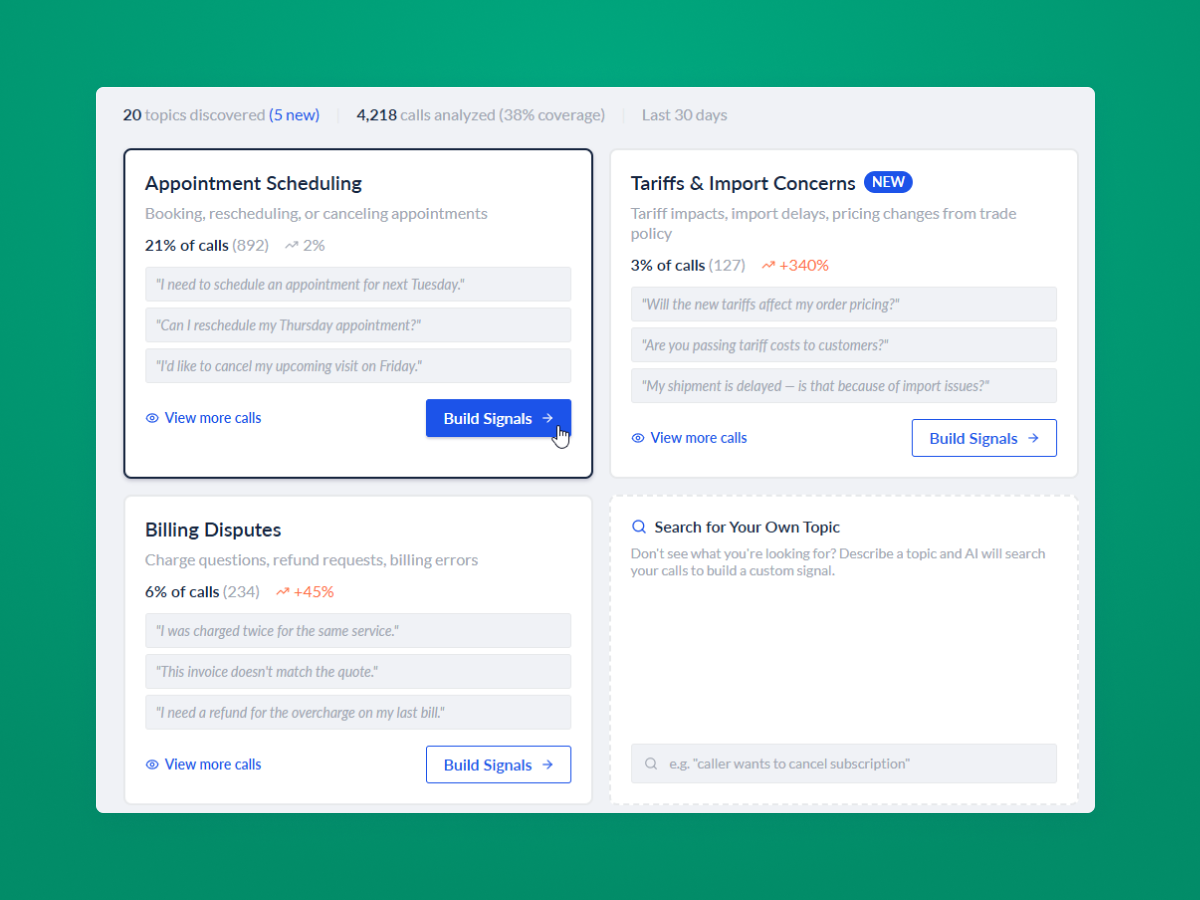
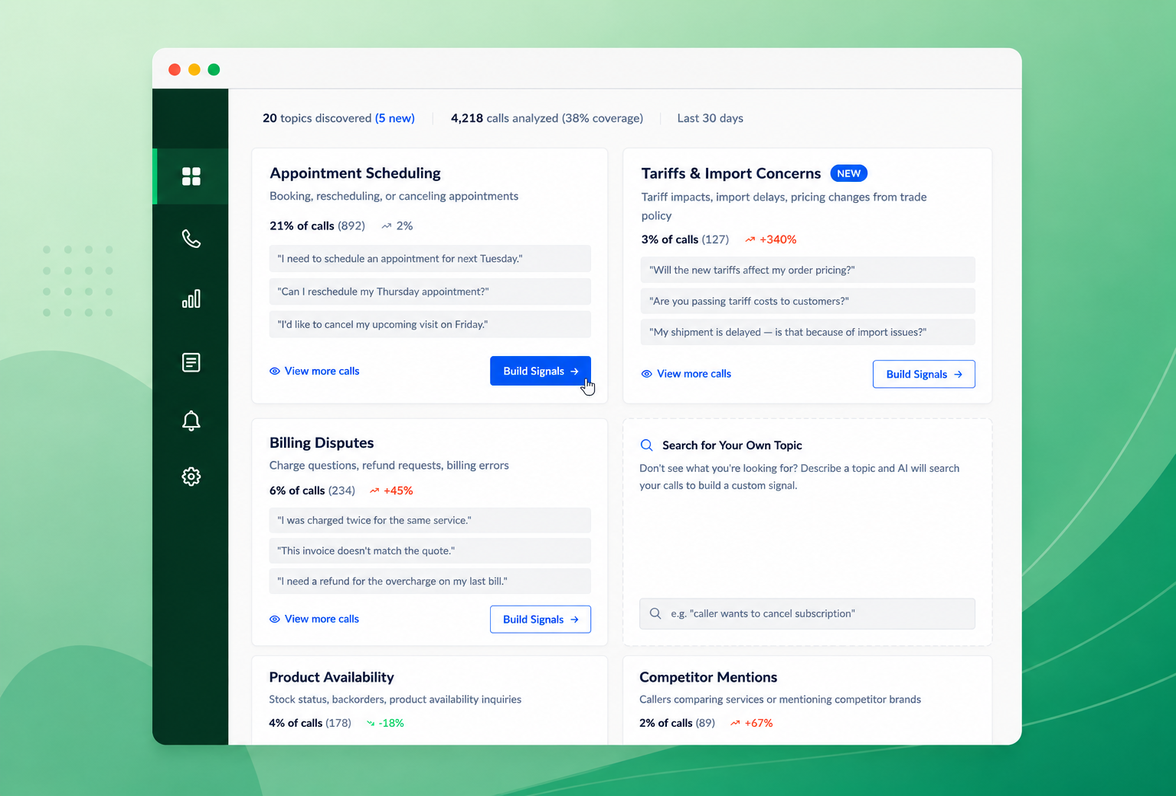
Update Invoca AI case study assets

diff --git a/case-study-invoca-ai.html b/case-study-invoca-ai.html
@@ -175,28 +175,36 @@
     <!-- ── 02. Hero image + product trio ── -->
     <div class="cs-img-breakout" style="margin-top:32px">
       <div class="cs-img-frame landscape" style="aspect-ratio:16/9">
-        <a href="images/Signal Discovery Automation/heroimage.png" class="glightbox" data-title="Concept overview: a four-stage workflow from discovery to validation">
-          <img src="images/Signal Discovery Automation/heroimage.png" alt="AI Signal Discovery concept overview" style="object-fit:cover;object-position:center top"/>
+        <a href="images/Signal Discovery Automation/topic_explorer.png" class="glightbox" data-title="Concept overview: a four-stage workflow from discovery to validation">
+          <img src="images/Signal Discovery Automation/topic_explorer.png" alt="AI Signal Discovery concept overview" style="object-fit:cover;object-position:center top"/>
         </a>
       </div>
     </div>
 
     <div class="cs-art-img-3col" style="margin-top:12px">
       <div class="cs-img-frame landscape">
-        <a href="images/Signal Discovery Automation/step1 - topicexplorer.png" class="glightbox" data-title="Stage 1: themes surfaced from call data before training">
-          <img src="images/Signal Discovery Automation/step1 - topicexplorer.png" alt="Topic Explorer concept"/>
+        <a href="images/Signal Discovery Automation/topic_explorer.png" class="glightbox" data-title="Stage 1: themes surfaced from call data before training">
+          <img src="images/Signal Discovery Automation/topic_explorer.png" alt="Topic Explorer concept"/>
         </a>
       </div>
       <div class="cs-img-frame landscape">
-        <a href="images/Signal Discovery Automation/step2 - define.png" class="glightbox" data-title="Stage 2: structured signal definition with candidacy checks">
-          <img src="images/Signal Discovery Automation/step2 - define.png" alt="Signal Blueprint concept"/>
+        <a href="images/Signal Discovery Automation/step2_define_v2.png" class="glightbox" data-title="Stage 2: structured signal definition with candidacy checks">
+          <img src="images/Signal Discovery Automation/step2_define_v2.png" alt="Signal Blueprint concept"/>
         </a>
       </div>
       <div class="cs-img-frame landscape">
-        <a href="images/Signal Discovery Automation/step4-accuracygood-tiebreaker.png" class="glightbox" data-title="Stage 4: live accuracy validation with human tiebreaker">
-          <img src="images/Signal Discovery Automation/step4-accuracygood-tiebreaker.png" alt="Validation concept"/>
+        <a href="images/Signal Discovery Automation/step4_accuracy_v2.png" class="glightbox" data-title="Stage 4: live accuracy validation with human tiebreaker">
+          <img src="images/Signal Discovery Automation/step4_accuracy_v2.png" alt="Validation concept"/>
         </a>
       </div>
+    </div>
+
+    <!-- Prototype callout (highest-prominence "proof" surface for a concept project) -->
+    <div class="cs-proto-callout">
+      <div class="cs-article-label" style="color:rgba(56,189,248,0.75)">Interactive Prototype</div>
+      <h3>The four-stage workflow, <em>walkable</em></h3>
+      <p>The Figma Make prototype is the closest thing this concept has to a shipped artifact. It walks through Topic Explorer, Signal Blueprint, training, and validation as a clickable flow. It's the artifact I used to align stakeholders on the vision and earn buy-in for the next phase.</p>
+      <a href="https://www.figma.com/make/HlMvZk3XSvoFqQ9MeL8TyG/Signal-Discovery-Automation-Workflow?fullscreen=1&t=3S3hxCYUyz858MYA-1" target="_blank" rel="noopener noreferrer" class="cs-proto-cta">Launch interactive prototype ↗</a>
     </div>
 
     <!-- ── 03. Impact stat cards ── -->
@@ -422,8 +430,8 @@
       <div class="cs-subbeat">
         <div class="cs-img-breakout">
           <div class="cs-img-frame landscape">
-            <a href="images/Signal Discovery Automation/step1 - topicexplorer.png" class="glightbox" data-title="Topic cards expose anticipated themes and unknown unknowns from call data">
-              <img src="images/Signal Discovery Automation/step1 - topicexplorer.png" alt="Topic Explorer concept" style="object-fit:cover;object-position:center top"/>
+            <a href="images/Signal Discovery Automation/topic_explorer.png" class="glightbox" data-title="Topic cards expose anticipated themes and unknown unknowns from call data">
+              <img src="images/Signal Discovery Automation/topic_explorer.png" alt="Topic Explorer concept" style="object-fit:cover;object-position:center top"/>
             </a>
           </div>
         </div>
@@ -440,8 +448,8 @@
       <div class="cs-subbeat">
         <div class="cs-img-breakout">
           <div class="cs-img-frame landscape">
-            <a href="images/Signal Discovery Automation/step2 - define.png" class="glightbox" data-title="Edge cases and AI-vs-keyword candidacy decided before round zero">
-              <img src="images/Signal Discovery Automation/step2 - define.png" alt="Signal Blueprint concept" style="object-fit:cover;object-position:center top"/>
+            <a href="images/Signal Discovery Automation/step2_define_v2.png" class="glightbox" data-title="Edge cases and AI-vs-keyword candidacy decided before round zero">
+              <img src="images/Signal Discovery Automation/step2_define_v2.png" alt="Signal Blueprint concept" style="object-fit:cover;object-position:center top"/>
             </a>
           </div>
         </div>
@@ -455,15 +463,10 @@
 
       <!-- Sub-beat 3: Stage 3 LLM-as-a-Judge Training -->
       <div class="cs-subbeat">
-        <div class="cs-art-img-2col">
+        <div class="cs-img-breakout">
           <div class="cs-img-frame landscape">
-            <a href="images/Signal Discovery Automation/step3a - automatic-training.png" class="glightbox" data-title="Two AIs train, the user resolves only the calls they disagree on">
-              <img src="images/Signal Discovery Automation/step3a - automatic-training.png" alt="LLM training tiebreaker UI"/>
-            </a>
-          </div>
-          <div class="cs-img-frame landscape">
-            <a href="images/Signal Discovery Automation/step3b - automatic-trainingprocessing.png" class="glightbox" data-title="Training runs in the background, no review queue to grind through">
-              <img src="images/Signal Discovery Automation/step3b - automatic-trainingprocessing.png" alt="Training processing state"/>
+            <a href="images/Signal Discovery Automation/step3_training_v2.png" class="glightbox" data-title="Training runs in the background, no review queue to grind through">
+              <img src="images/Signal Discovery Automation/step3_training_v2.png" alt="LLM training progress state"/>
             </a>
           </div>
         </div>
@@ -480,21 +483,21 @@
       <div class="cs-subbeat">
         <div class="cs-img-breakout">
           <div class="cs-img-frame landscape">
-            <a href="images/Signal Discovery Automation/step4-accuracygood-tiebreaker.png" class="glightbox" data-title="Good-accuracy state: signal cleared, ongoing accuracy displayed honestly">
-              <img src="images/Signal Discovery Automation/step4-accuracygood-tiebreaker.png" alt="Validation good accuracy" style="object-fit:cover;object-position:center top"/>
+            <a href="images/Signal Discovery Automation/step4_accuracy_v2.png" class="glightbox" data-title="Good-accuracy state: signal cleared, ongoing accuracy displayed honestly">
+              <img src="images/Signal Discovery Automation/step4_accuracy_v2.png" alt="Validation good accuracy" style="object-fit:cover;object-position:center top"/>
             </a>
           </div>
         </div>
 
         <div class="cs-art-img-2col">
           <div class="cs-img-frame landscape">
-            <a href="images/Signal Discovery Automation/step4b-low-accuracy-tiebreaker.png" class="glightbox" data-title="Low-accuracy state: recovery paths and re-scoping recommendations">
-              <img src="images/Signal Discovery Automation/step4b-low-accuracy-tiebreaker.png" alt="Validation low accuracy"/>
+            <a href="images/Signal Discovery Automation/step4_low_accuracy_v2.png" class="glightbox" data-title="Low-accuracy state: recovery paths and re-scoping recommendations">
+              <img src="images/Signal Discovery Automation/step4_low_accuracy_v2.png" alt="Validation low accuracy"/>
             </a>
           </div>
           <div class="cs-img-frame landscape">
-            <a href="images/Signal Discovery Automation/step4c-bad-accuracy-tiebreaker.png" class="glightbox" data-title="Bad-accuracy state: AI flagged as the wrong tool for this use case">
-              <img src="images/Signal Discovery Automation/step4c-bad-accuracy-tiebreaker.png" alt="Validation not recommended"/>
+            <a href="images/Signal Discovery Automation/step4_critically_low_accuracy_v2.png" class="glightbox" data-title="Critically low-accuracy state: AI flagged as the wrong tool for this use case">
+              <img src="images/Signal Discovery Automation/step4_critically_low_accuracy_v2.png" alt="Validation critically low accuracy"/>
             </a>
           </div>
         </div>
@@ -506,13 +509,6 @@
         </div>
       </div>
 
-      <!-- Prototype callout (highest-prominence "proof" surface for a concept project) -->
-      <div class="cs-proto-callout">
-        <div class="cs-article-label" style="color:rgba(56,189,248,0.75)">Interactive Prototype</div>
-        <h3>The four-stage workflow, <em>walkable</em></h3>
-        <p>The Figma Make prototype is the closest thing this concept has to a shipped artifact. It walks through Topic Explorer, Signal Blueprint, training, and validation as a clickable flow. It's the artifact I used to align stakeholders on the vision and earn buy-in for the next phase.</p>
-        <a href="https://www.figma.com/make/HlMvZk3XSvoFqQ9MeL8TyG/Signal-Discovery-Automation-Workflow?fullscreen=1&t=3S3hxCYUyz858MYA-1" target="_blank" rel="noopener noreferrer" class="cs-proto-cta">Launch interactive prototype ↗</a>
-      </div>
     </div>
 
     <!-- ── 09. Outcomes ── -->